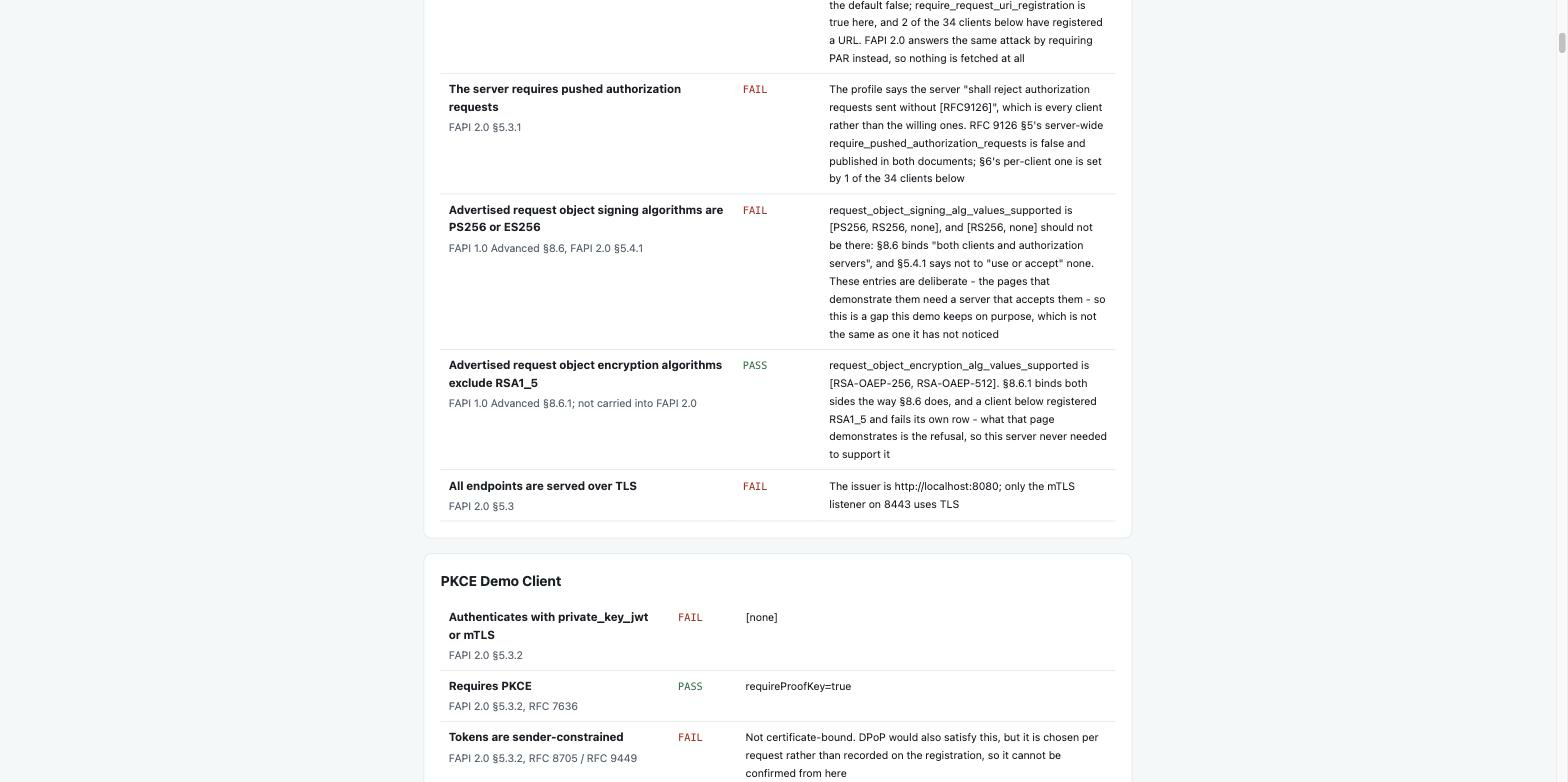
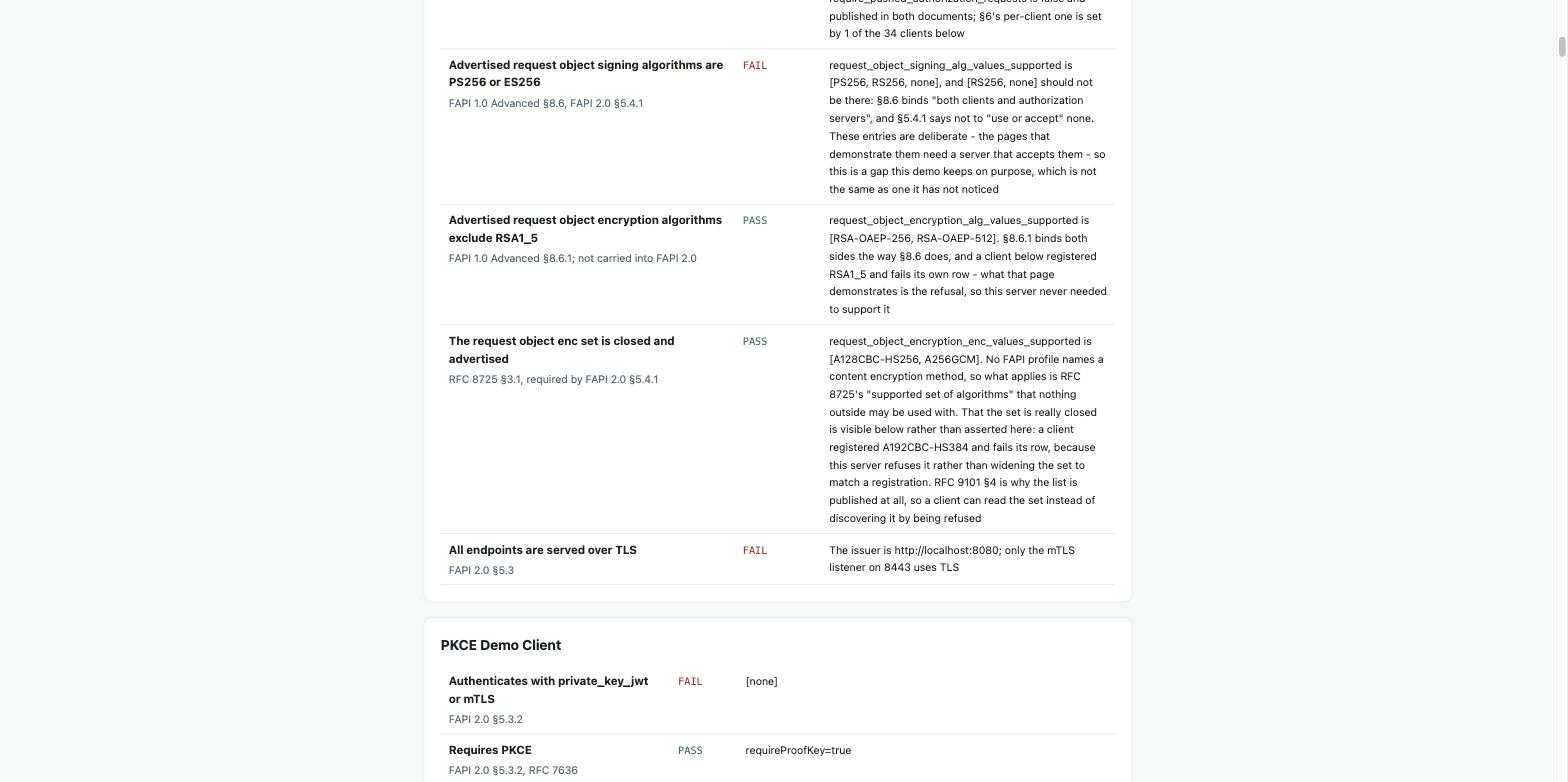
docs: three lists, three citations, three kinds of outcome 📝📐
Completes the description of RFC 9101 §4's trio: one failing, one passing
on the merits, and one passing by pointing at falsifiable evidence — with
the third citing no FAPI section at all, and the README saying why.

diff --git a/README.md b/README.md
@@ -756,8 +756,8 @@ one the profile stopped asking for.
 
 ![The server table](docs/images/142-fapi-server-request-uri-registration.png)
 
-**143. FAPI 2.0** — the bottom of it, and the pairing worth reading: the same profile section binds
-clients and servers, and the advertised signing list fails where the encryption list passes.
+**143. FAPI 2.0** — the bottom of it: all three of the lists RFC 9101 §4 names together, each with
+its own citation, one failing and two passing.
 
 ![The two algorithm rows](docs/images/143-fapi-advertised-algorithms.png)
 
@@ -2647,6 +2647,19 @@ between the two rows is not in the rules but in what each demonstration needed. 
 [`RSA1_5` *refused*](#request_object_encryption_alg) requires a server that does not. One list had to
 break the profile to teach its lesson and the other had to keep it — so the client that registered
 `RSA1_5` fails its row while the server passes this one.
+
+The third of the trio completes the set. RFC 9101 §4 names all three metadata values together, and
+[`request_object_encryption_enc_values_supported`](#request_object_encryption_enc_values_supported)
+is `[A128CBC-HS256, A256GCM]`. It is the one **no FAPI profile has an opinion about** — none of the
+three names a content encryption method — so its row borrows the same chain the per-client `enc`
+rows use, RFC 8725 §3.1's *"supported set of algorithms"* that nothing outside may be used with, and
+its citation says so rather than implying a FAPI requirement that does not exist.
+
+It passes, and the proof that the set is genuinely closed is a row further down rather than a claim
+in the row itself: the client that registered `A192CBC-HS384` fails, because this server refuses it
+instead of widening the set to match a registration. Three advertised lists, three different
+citations, and between them one failure, one pass on the merits, and one pass that points at its own
+evidence.
 
 The signing failure is the server half of the per-client signing row further down. A client here can
 register `PS256`, pass its own row, and still be talking to a server that accepts `none` from
